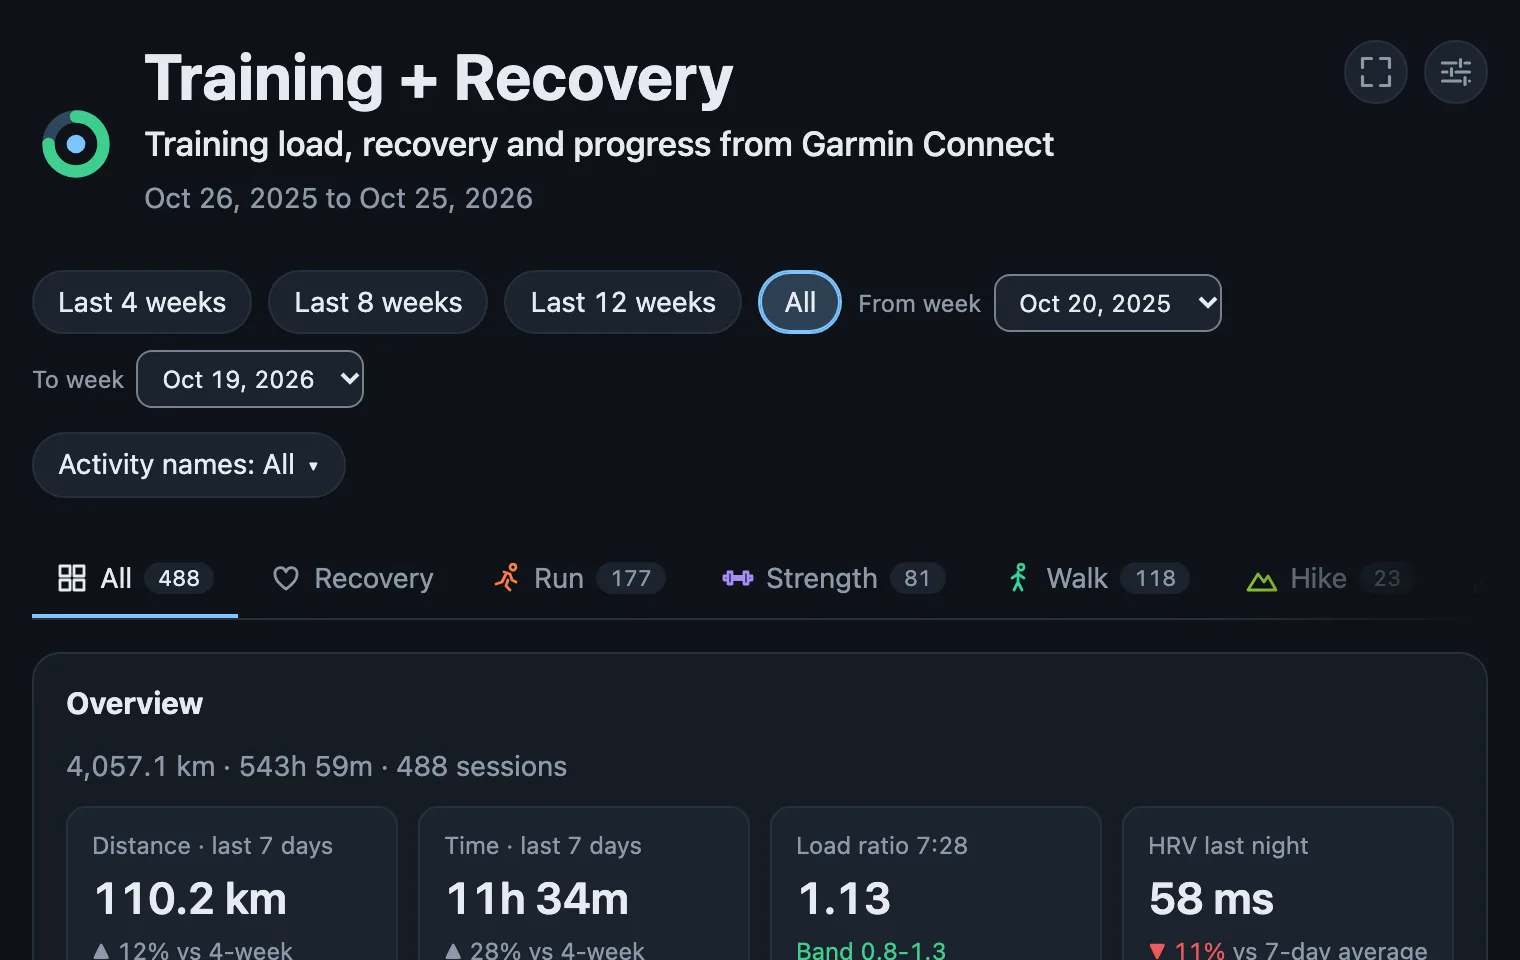
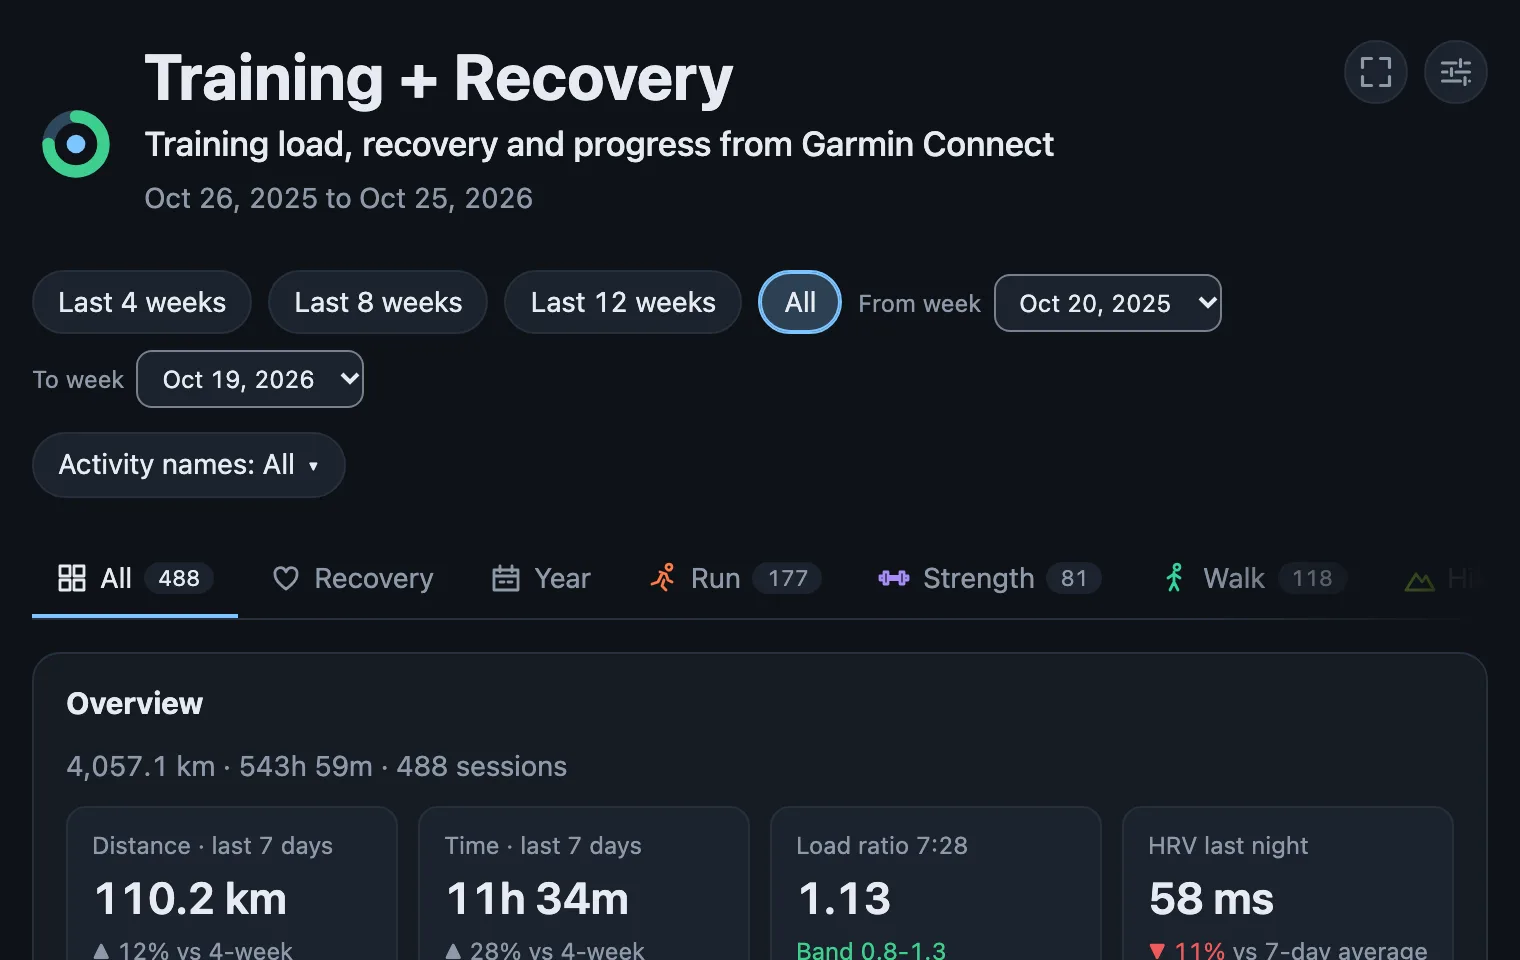
feat(site): show the Year tab and the Recovery trend in the demo (#285)
The demo page of the website and the demo images show both. The recap comes
from the code of the server, and the sample recovery data covers the year, so
no month of resting HR is missing. The note on the demo page says that both
are off on a new page.

Changed region(s): [[0.3092, 0.5938, 0.9586, 0.625]]

diff --git a/test/site.test.ts b/test/site.test.ts
@@ -5,6 +5,9 @@ import { join } from "node:path";
 import { afterEach, describe, expect, it } from "vitest";
 import { facts, releases, render, renderWhatsNew, themeGroups } from "../scripts/build-site.mjs";
 import { gifIsCurrent, STAMP_FILE } from "../scripts/demo-stamp.mjs";
+import type { Activity } from "../src/analytics/calc";
+import { type YearSummary, yearSummary } from "../src/analytics/year";
+import { addDays } from "../src/dates";
 import { THEMES } from "../src/page/theme";
 import { AUTHORED, QUESTIONS } from "../site/questions";
 
@@ -319,6 +322,26 @@ describe("site page", () => {
   });
 });
 
+/** The data that the demo script writes with these options. */
+function demo(...options: string[]) {
+  const dir = mkdtempSync(join(tmpdir(), "demo-data-"));
+  try {
+    const file = join(dir, "d.json");
+    execFileSync("node", ["scripts/demo-dashboard.mjs", file, ...options], { stdio: "ignore" });
+    return JSON.parse(readFileSync(file, "utf8")) as {
+      start: string;
+      end: string;
+      zones: unknown;
+      activities: Activity[];
+      hrv: Record<string, unknown>[];
+      recovery: Record<string, unknown>[];
+      year: YearSummary;
+    };
+  } finally {
+    rmSync(dir, { recursive: true, force: true });
+  }
+}
+
 describe("demo data", () => {
   it("gives the runs the plan verdicts of the server: cadence laps on intervals, [] on tempo runs, else null", () => {
     const dir = mkdtempSync(join(tmpdir(), "demo-data-"));
@@ -356,5 +379,49 @@ describe("demo data", () => {
     } finally {
       rmSync(dir, { recursive: true, force: true });
     }
+  });
+
+  it("has the recap that the server computes from the same rows, with no missing day", () => {
+    const { year, activities, hrv, recovery, zones, start, end } = demo();
+    const period = { from: start, to: end };
+    expect(start < `${year.year}-01-01`).toBe(true);
+    expect(year).toEqual(
+      yearSummary(
+        {
+          activities,
+          hrv,
+          recovery,
+          zones,
+          coverage: { activities: period, hrv: period, rhr: period },
+        },
+        Number(end.slice(0, 4)),
+        end,
+      ),
+    );
+    expect(year.coverage.complete).toBe(true);
+    expect(year.months.length).toBeGreaterThan(1);
+    // a mean for each month: the HRV and resting HR tile has no n/a
+    for (const rows of [year.hrv, year.rhr]) {
+      expect(rows?.map((m) => m.month)).toEqual(year.months.map((m) => m.month));
+      for (const m of rows ?? []) expect(m.mean).not.toBeNull();
+    }
+  });
+
+  it.each([
+    ["2027-01-14", 2026],
+    ["2027-01-15", 2027],
+  ])("with the end %s, has the recap of %i, as the server does", (end, year) => {
+    expect(demo("--weeks", "4", "--end", end).year.year).toBe(year);
+  });
+
+  it("has the recovery rows of the recoveryHistory setting: one a day, short before the last 14", () => {
+    const { recovery, start, end } = demo();
+    const days: string[] = [];
+    for (let day = start; day <= end; day = addDays(day, 1)) days.push(day);
+    expect(recovery.map((r) => r.date)).toEqual(days);
+    for (const r of recovery.slice(0, -14)) {
+      expect(Object.keys(r)).toEqual(["date", "sleepH", "sleepScore", "rhr"]);
+    }
+    for (const r of recovery.slice(-14)) expect(Object.keys(r).length).toBeGreaterThan(4);
   });
 });

diff --git a/test/e2e/site.e2e.ts b/test/e2e/site.e2e.ts
@@ -470,4 +470,23 @@ describe("site demo", () => {
     for (const v of gct) expect(v).toMatch(/^\d+ ms$/);
     expect(errors).toEqual([]);
   });
+
+  it("shows the Year tab with a resting HR in each month and the Recovery trend, and its note names both", async () => {
+    const { page, errors } = await site();
+    await page.goto(`${base}demo/index.html#year`, { waitUntil: "load" });
+    const tile = "[data-id=yearRecovery]";
+    await page.waitForSelector(`${tile} table.data`);
+    const rows = await page.$$eval(`${tile} table.data tbody tr`, (r) =>
+      r.map((x) => x.textContent),
+    );
+    expect(rows.length).toBeGreaterThan(1);
+    expect(rows.join()).not.toContain("n/a");
+    expect(await page.textContent("[data-id=yearTotals]")).not.toContain("n/a");
+    expect(await page.textContent(".demo-note")).toContain(
+      "The Year tab and the Recovery trend are off on a new page",
+    );
+    await page.click("[data-tab=recovery]");
+    await page.waitForSelector("[data-id=recoveryTrend] canvas");
+    expect(errors).toEqual([]);
+  });
 });

diff --git a/README.md b/README.md
@@ -39,7 +39,7 @@
 </p>
 
 <p align="center">
-  <img src="assets/dashboard.gif" alt="The training dashboard: the All board, load against recovery, the Run board, strength trends, edit mode (drag a widget to a new place, hide a widget, add widgets from the catalogue to an empty board), and the light and high-contrast themes" width="800">
+  <img src="assets/dashboard.gif" alt="The training dashboard: the All board, load against recovery, the Run board, strength trends, the Year tab, edit mode (drag a widget to a new place, hide a widget, add widgets from the catalogue to an empty board), and the light and high-contrast themes" width="800">
 </p>
 <p align="center">
   <sub><i>One thing you can build: the training dashboard, with demo data.</i></sub>
